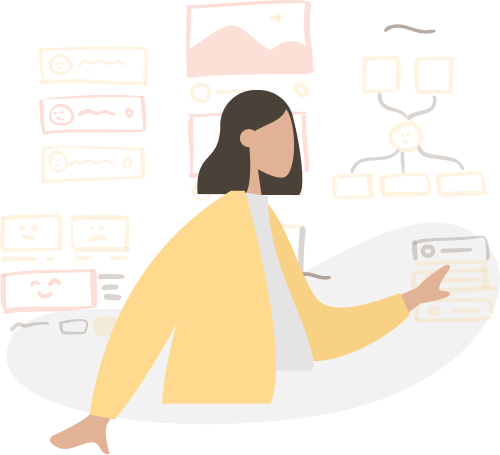
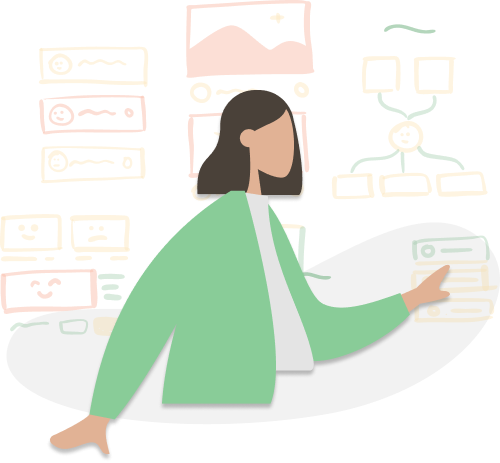
Add experience and contact page

diff --git a/src/Components/experience.js b/src/Components/experience.js
@@ -1,5 +1,17 @@
 import React, { Component } from 'react';
 import { Container, Row, Col, Button } from "react-bootstrap";
+import figma from '../img/figma.png';
+import adobecc from '../img/adobecc.jpg';
+import bootstrap from '../img/bootstrap.png';
+import html from '../img/html.png';
+import css from '../img/css.png';
+import javascript from '../img/javascript.png';
+import react from '../img/react.png';
+import angular from '../img/angular.png';
+import nodejs from '../img/nodejs.png';
+import django from '../img/django.jpg';
+import graphql from '../img/graphql.png';
+import git from '../img/git.png';
 
 class Experience extends Component {
   render() {
@@ -35,12 +47,33 @@ class Experience extends Component {
             <Col>
               <h2>toolbox</h2>
               <div className="toolbox">
-
+                <Container>
+                  <Row xs={3}>
+                    <Col><img className="icon" src={figma} alt="Figma"/></Col>
+                    <Col><img className="icon" src={adobecc} alt="Adobe Creative Cloud"/></Col>
+                    <Col><img className="icon" src={bootstrap} alt="Bootstrap"/></Col>
+                  </Row>
+                  <Row xs={3}>
+                    <Col><img className="icon" src={html} alt="HTML"/></Col>
+                    <Col><img className="icon" src={css} alt="CSS"/></Col>
+                    <Col><img className="icon" src={javascript} alt="Javascript"/></Col>
+                  </Row>
+                  <Row xs={3}>
+                    <Col><img className="icon" src={react} alt="React"/></Col>
+                    <Col><img className="icon" src={angular} alt="Angular"/></Col>
+                    <Col><img className="icon" src={nodejs} alt="NodeJS"/></Col>
+                  </Row>
+                  <Row xs={3}>
+                    <Col><img className="icon" src={django} alt="Django"/></Col>
+                    <Col><img className="icon" src={graphql} alt="GraphQL"/></Col>
+                    <Col><img className="icon" src={git} alt="Git"/></Col>
+                  </Row>
+                </Container>
               </div>
             </Col>
           </Row>
         </Container>
-        <Button>view resume</Button>
+        <div className="resume"><Button>view resume</Button></div>
       </div>     
     );
   }

diff --git a/src/App.css b/src/App.css
@@ -117,14 +117,14 @@ html, body {
   height: 1080px;
 }
 #experience .job{
-  padding-bottom: 1em;
+  padding-bottom: 1.5em;
 }
 #experience h1 {
   text-align: center;
   font-size: 36px;
   font-weight: 700;
   color: #F27E59;
-  padding-top: 2em;
+  padding: 2em;
 }
 #experience h2 {
   font-size: 28px;
@@ -140,25 +140,36 @@ html, body {
   font-size: 24px;
   color: #4D4D4D;
 }
+#experience .icon {
+  height: 60px;
+}
+#experience .resume {
+  text-align: center;
+  padding-top: 3em;
+}
 #experience Button {
   font-size: 24px;
   color: #FAFAFA;
-  background: #69AC78;
-  border-color: #69AC78;
+  background: #F27E59;
+  border-color: #F27E59;
   border-radius: 20px;
   box-shadow: 0px 4px 4px rgba(0, 0, 0, 0.25);
-  padding: 0.5em;
+  padding: 0.5em 1em;
 }
 
 #contact {
   position: relative;
-  height: 1080px;
+  height: 300px;
   background-color: #69AC78;
+  color: #FAFAFA;
+  text-align: center;
+
 }
 #contact h1 {
-  text-align: center;
   font-size: 36px;
   font-weight: 700;
-  color: #FAFAFA;
-  padding-top: 2em;
+  padding-top: 1em;
+}
+#contact h2 {
+  font-size: 20px;
 }

diff --git a/src/Components/contact.js b/src/Components/contact.js
@@ -5,7 +5,14 @@ class Contact extends Component {
   render() {
     return (
       <div id="contact">
+        <footer>
         <h1>contact me</h1>
+        <div className="info">
+          <h2>trishaprilee@gmail.com</h2>
+
+        </div>
+        <p>Made with ♥ in California • © Trisha Le 2020</p>
+        </footer>
       </div>     
     );
   }

diff --git a/src/App.js b/src/App.js
@@ -11,7 +11,7 @@ import Contact from './Components/contact';
 class App extends Component {
   render() {
     return (
-      <Scrollbars autoHide style={{ height: 1041 }}>
+      <Scrollbars autoHide style={{ height: 930 }}>
         <div className="App">
           <Cover/>
           <About/>
